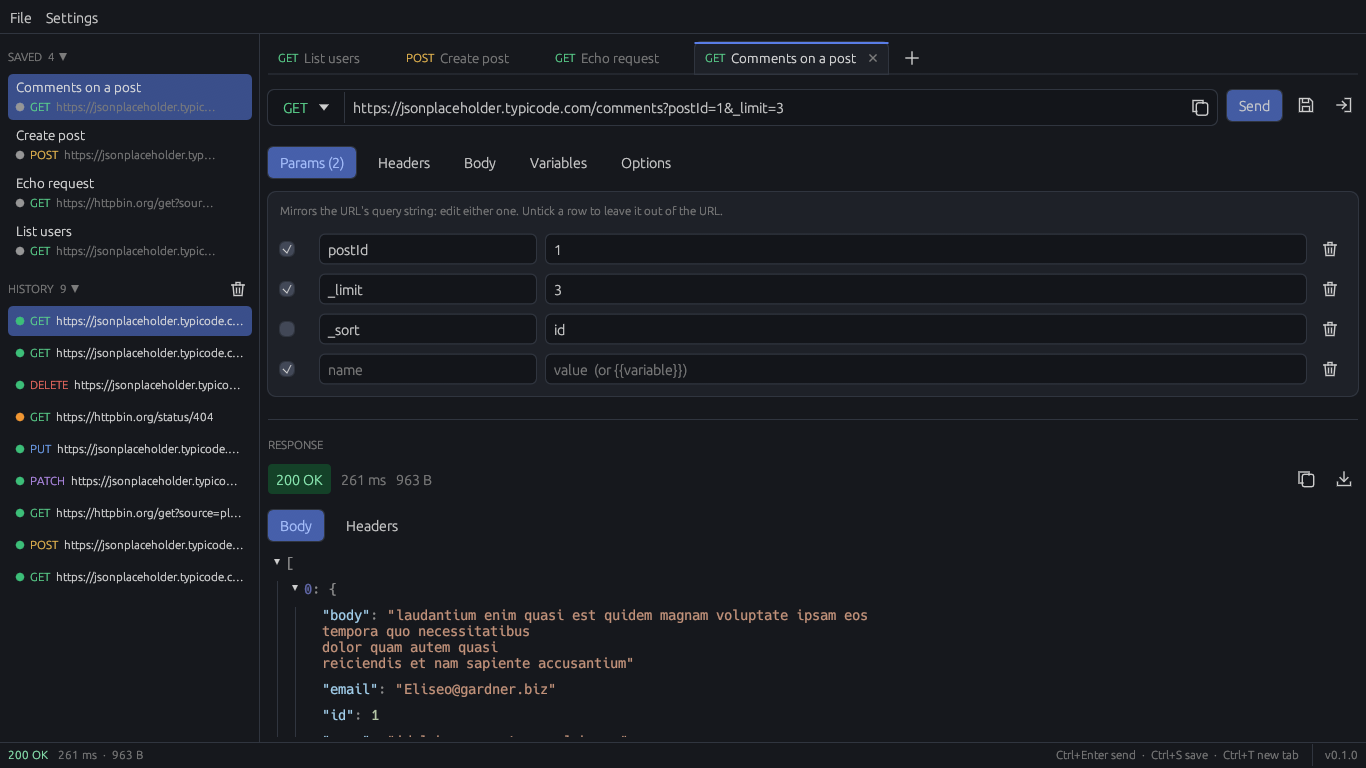
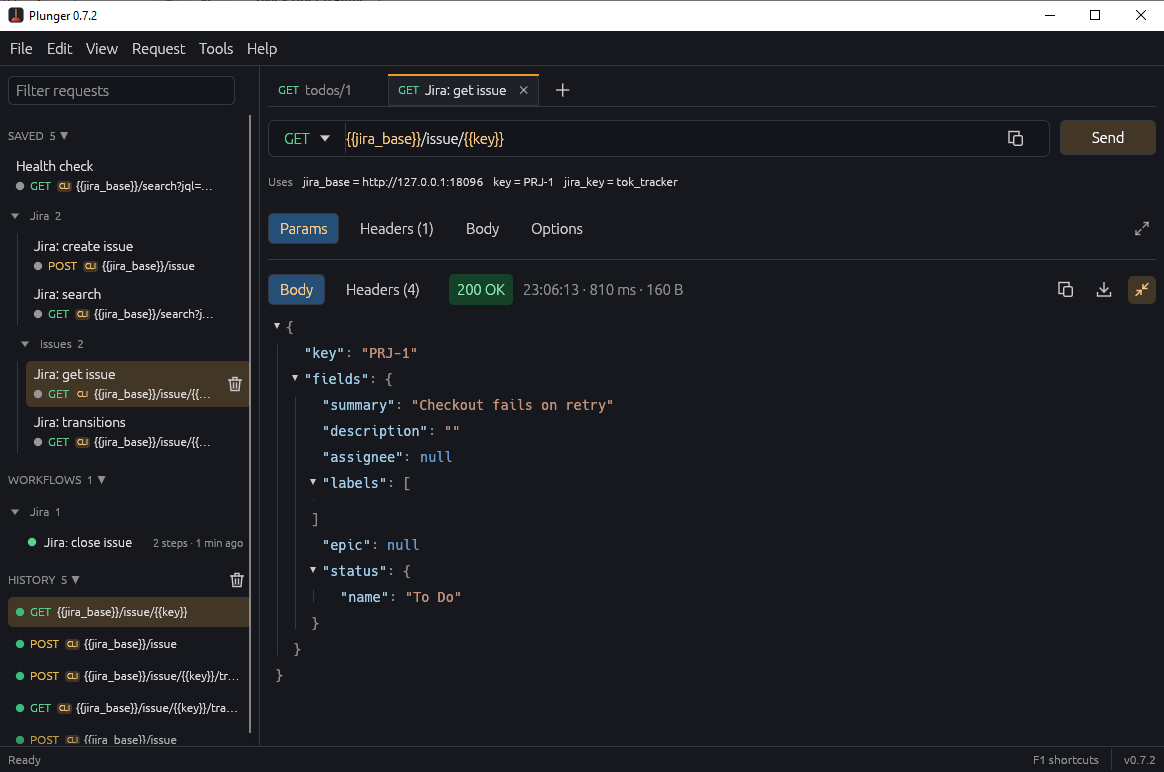
README: current screenshots, a workflow section with a recording of a run

diff --git a/scripts/tracker-api.py b/scripts/tracker-api.py
@@ -16,8 +16,10 @@ Every request needs "Authorization: Bearer tok_tracker".
   GET  /blob                     a small PNG (binary)
 """
 import json
+import os
 import re
 import sys
+import time
 from http.server import BaseHTTPRequestHandler, ThreadingHTTPServer
 from urllib.parse import parse_qs, urlparse
 
@@ -47,6 +49,9 @@ class Handler(BaseHTTPRequestHandler):
         if self.headers.get("Authorization") != f"Bearer {TOKEN}":
             return self.send(401, {"errorMessages": ["You are not authenticated"]})
         path = url.path
+        # TRACKER_DELAY=0.6 makes every answer take that long, so a screen recording can show a workflow's
+        # steps one after the other
+        time.sleep(float(os.environ.get("TRACKER_DELAY", "0")))
         if path == "/boom":
             return self.send(500, raw=b"<html><body>Internal Server Error</body></html>", ctype="text/html")
         if path == "/old":

diff --git a/README.md b/README.md
@@ -103,6 +103,16 @@ Run `plunger install` (or **File > Set up AI agents...** in the window) to regis
 
 Tools: `send_request`, `import_curl`, `list_saved_requests`, `get_history`, `list_variables`, `export_curl`. From a terminal: `plunger send "Saved request name"`, `plunger send --url ...`, `plunger history`. Setup, every tool and option, exit codes and the fine print are in [docs/agents.md](docs/agents.md).
 
+## Workflows
+
+When one response feeds the next request (log in, then use the token; look up an id, then act on it), save the steps as a **workflow**. An agent runs it in one call (`run_workflow`, or `plunger workflow run`), and you see it as a flow in the window: a card per step on a rail of connected dots, the values a step hands on written on the connector, and every step lit up as it runs.
+
+<p align="center">
+  <img src="docs/images/workflow-run.gif" alt="The workflow window running two steps against a local issue tracker: transitions finishes with 200 and hands transition_id to the second step, move to Done returns 204, and the run ends with all 2 steps passed" width="760">
+</p>
+
+<p align="center"><sub>Step 1 looks up the id of the "Done" transition and keeps it for this run only; step 2 uses it. Steps can expect several statuses, be skipped or stop the run on a condition. Details in <a href="docs/agents.md">docs/agents.md</a>.</sub></p>
+
 ## Small by design
 
 Built in Rust with [egui](https://github.com/emilk/egui) because we wanted a small, fast, native application. No webview, no bundled browser: one exe of about 7 MB, which is also a command-line client and an MCP server for AI agents.
@@ -123,11 +133,11 @@ A few promises, so you know what you're picking up:
 
 <table>
   <tr>
-    <td width="50%"><img src="docs/images/hero.png" alt="Plunger with four request tabs, saved requests and history in the sidebar, query params in sync with the URL, and a JSON response"><br><sub>Request, response, JSON. Saved requests and history on the left.</sub></td>
+    <td width="50%"><img src="docs/images/hero.png" alt="Plunger with saved requests grouped into folders, workflows and history in the sidebar (each tagged CLI or MCP when an agent sent it), the variables the open request uses under the URL, and a JSON response"><br><sub>Saved requests in groups, workflows and history on the left; the variables a request uses sit under its URL.</sub></td>
     <td width="50%"><img src="docs/images/form-data.png" alt="A multipart form-data request with a text field and a file field, and the server's echo of the upload"><br><sub>Multipart uploads with real files.</sub></td>
   </tr>
   <tr>
-    <td><img src="docs/images/variables.png" alt="The Variables window with a base URL and a masked secret token, used as {{base}} in the URL"><br><sub>Variables, with secrets masked and kept off disk.</sub></td>
+    <td><img src="docs/images/variables.png" alt="The Variables window: values shared by every request, the command line and agents, with who set each one"><br><sub>Variables are shared by every request and agent; secrets are masked and kept off disk.</sub></td>
     <td><img src="docs/images/undefined-variables.png" alt="A request refused because {{base}} and {{token}} are not defined"><br><sub>Undefined variables stop the request instead of leaking a placeholder.</sub></td>
   </tr>
   <tr>
